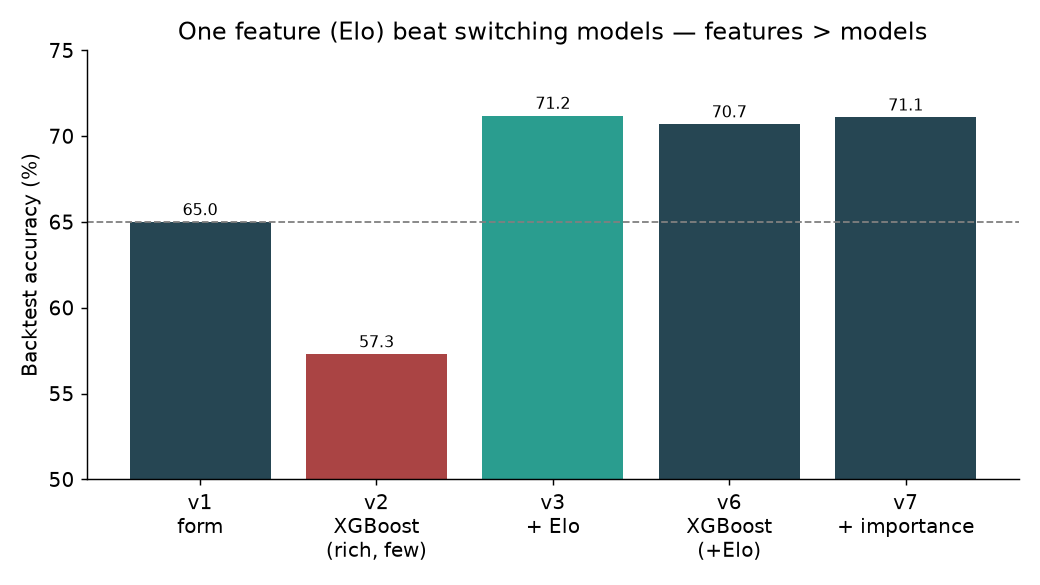
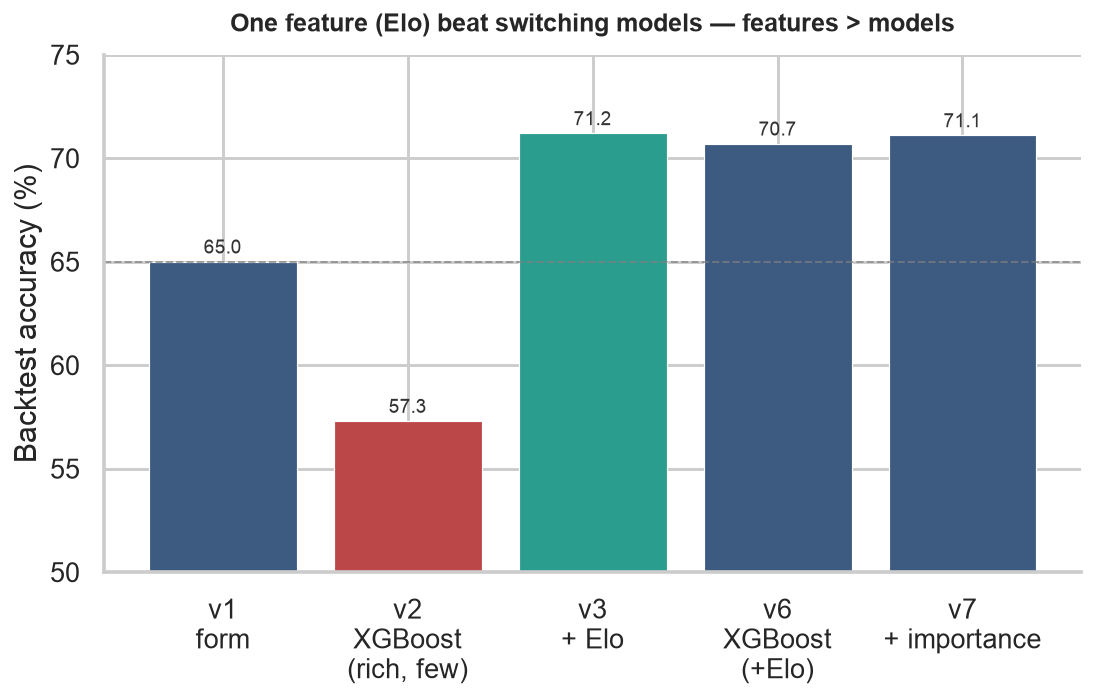
Polish README visuals: seaborn-styled charts, Mermaid pipeline, badges
Restyle all charts with a clean seaborn theme; convert the ASCII pipeline to
a native Mermaid flowchart (renders on GitHub); add tech-stack badges.

diff --git a/make_viz.py b/make_viz.py
@@ -1,70 +1,70 @@
-"""Generate README visualizations into assets/."""
+"""Generate README visualizations into assets/ (seaborn-styled)."""
 
 import matplotlib
 matplotlib.use("Agg")
 import matplotlib.pyplot as plt
 import numpy as np
+import seaborn as sns
 
-plt.rcParams.update({"font.size": 11, "figure.dpi": 130})
+sns.set_theme(style="whitegrid", context="talk", font_scale=0.85)
+plt.rcParams.update({"figure.dpi": 140, "savefig.bbox": "tight",
+                     "axes.spines.top": False, "axes.spines.right": False})
 
-# ── 1. Prediction vs market for Brazil–Morocco ──────────────────────────
-outcomes = ["Brazil win", "Draw", "Morocco win"]
-ours = [36, 28, 36]
-statsbomb = [39, 32, 29]   # independent StatsBomb + XGBoost model (community)
-market = [59, 26, 17]
-x = np.arange(len(outcomes))
-w = 0.27
+TEAL, BLUE, ORANGE = "#2a9d8f", "#3d5a80", "#ee6c4d"
 
-fig, ax = plt.subplots(figsize=(9, 4.5))
-ax.bar(x - w, ours, w, label="Our model (logreg + Elo)", color="#2a9d8f")
-ax.bar(x, statsbomb, w, label="sujar.tech (StatsBomb + XGBoost)", color="#457b9d")
-ax.bar(x + w, market, w, label="Polymarket", color="#e76f51")
-ax.axvspan(0.5, 1.5, color="gold", alpha=0.15)
-ax.text(1, 63, "ACTUAL: 1–1 draw", ha="center", fontweight="bold", color="#b8860b")
-ax.set_xticks(x); ax.set_xticklabels(outcomes)
-ax.set_ylabel("Probability (%)"); ax.set_ylim(0, 70)
-ax.set_title("Two independent data models saw an even match — the market was the outlier")
-ax.legend(fontsize=9); ax.spines[["top", "right"]].set_visible(False)
-for i, (o, s, m) in enumerate(zip(ours, statsbomb, market)):
-    ax.text(i - w, o + 1, f"{o}%", ha="center", fontsize=8)
-    ax.text(i, s + 1, f"{s}%", ha="center", fontsize=8)
-    ax.text(i + w, m + 1, f"{m}%", ha="center", fontsize=8)
-fig.tight_layout(); fig.savefig("assets/prediction_vs_market.png"); plt.close(fig)
 
-# ── 1b. Netherlands vs Japan — predictions (result pending) ─────────────
-nj_outcomes = ["Netherlands", "Draw", "Japan"]
-nj_ours = [36, 30, 34]
-nj_sujar = [53, 29, 18]   # sujar.tech, StatsBomb + XGBoost
-nj_market = [48, 28, 26]
-xn = np.arange(len(nj_outcomes))
+def grouped(outcomes, series, title, savename, ymax, actual=None, actual_idx=None):
+    """3-series grouped bars with value labels."""
+    x = np.arange(len(outcomes)); w = 0.27
+    fig, ax = plt.subplots(figsize=(9, 4.8))
+    for k, (label, vals, color) in enumerate(series):
+        bars = ax.bar(x + (k - 1) * w, vals, w, label=label, color=color,
+                      edgecolor="white", linewidth=0.6)
+        for b, v in zip(bars, vals):
+            ax.text(b.get_x() + b.get_width() / 2, v + ymax * 0.012, f"{v}%",
+                    ha="center", fontsize=10, color="#333")
+    if actual is not None:
+        ax.axvspan(actual_idx - 0.5, actual_idx + 0.5, color="#ffd166", alpha=0.18, zorder=0)
+        ax.text(actual_idx, ymax * 0.9, actual, ha="center", fontweight="bold", color="#b8860b")
+    ax.set_xticks(x); ax.set_xticklabels(outcomes)
+    ax.set_ylabel("Probability (%)"); ax.set_ylim(0, ymax)
+    ax.set_title(title, fontsize=13, fontweight="bold", pad=12)
+    ax.legend(fontsize=9, frameon=True, framealpha=0.9)
+    sns.despine()
+    fig.savefig(f"assets/{savename}.png"); plt.close(fig)
 
-fig, ax = plt.subplots(figsize=(9, 4.5))
-ax.bar(xn - w, nj_ours, w, label="Our model (logreg + Elo)", color="#2a9d8f")
-ax.bar(xn, nj_sujar, w, label="sujar.tech (StatsBomb + XGBoost)", color="#457b9d")
-ax.bar(xn + w, nj_market, w, label="Polymarket", color="#e76f51")
-ax.set_xticks(xn); ax.set_xticklabels(nj_outcomes)
-ax.set_ylabel("Probability (%)"); ax.set_ylim(0, 60)
-ax.set_title("Netherlands vs Japan — our model is the contrarian (even match), result pending")
-ax.legend(fontsize=9); ax.spines[["top", "right"]].set_visible(False)
-for i, (o, s, m) in enumerate(zip(nj_ours, nj_sujar, nj_market)):
-    ax.text(i - w, o + 1, f"{o}%", ha="center", fontsize=8)
-    ax.text(i, s + 1, f"{s}%", ha="center", fontsize=8)
-    ax.text(i + w, m + 1, f"{m}%", ha="center", fontsize=8)
-fig.tight_layout(); fig.savefig("assets/prediction_netherlands_japan.png"); plt.close(fig)
 
-# ── 2. Accuracy by version (the feature-engineering story) ──────────────
+# 1. Brazil vs Morocco
+grouped(
+    ["Brazil win", "Draw", "Morocco win"],
+    [("Our model (logreg + Elo)", [36, 28, 36], TEAL),
+     ("sujar.tech (StatsBomb + XGBoost)", [39, 32, 29], BLUE),
+     ("Polymarket", [59, 26, 17], ORANGE)],
+    "Brazil vs Morocco — two data models saw an even match; the market didn't",
+    "prediction_vs_market", ymax=70, actual="ACTUAL: 1–1 draw", actual_idx=1)
+
+# 1b. Netherlands vs Japan
+grouped(
+    ["Netherlands", "Draw", "Japan"],
+    [("Our model (logreg + Elo)", [36, 30, 34], TEAL),
+     ("sujar.tech (StatsBomb + XGBoost)", [53, 29, 18], BLUE),
+     ("Polymarket", [48, 28, 26], ORANGE)],
+    "Netherlands vs Japan — our model is the contrarian (result pending)",
+    "prediction_netherlands_japan", ymax=60)
+
+# 2. Accuracy by version
 versions = ["v1\nform", "v2\nXGBoost\n(rich, few)", "v3\n+ Elo", "v6\nXGBoost\n(+Elo)", "v7\n+ importance"]
 acc = [65.0, 57.3, 71.2, 70.7, 71.1]
-colors = ["#264653", "#a44", "#2a9d8f", "#264653", "#264653"]
-
-fig, ax = plt.subplots(figsize=(8, 4.5))
-bars = ax.bar(versions, acc, color=colors)
-ax.axhline(65, ls="--", color="grey", lw=1)
+colors = ["#3d5a80", "#bc4749", TEAL, "#3d5a80", "#3d5a80"]
+fig, ax = plt.subplots(figsize=(9, 4.8))
+bars = ax.bar(versions, acc, color=colors, edgecolor="white", linewidth=0.6)
+ax.axhline(65, ls="--", color="grey", lw=1, alpha=0.7)
 ax.set_ylabel("Backtest accuracy (%)"); ax.set_ylim(50, 75)
-ax.set_title("One feature (Elo) beat switching models — features > models")
-ax.spines[["top", "right"]].set_visible(False)
+ax.set_title("One feature (Elo) beat switching models — features > models",
+             fontsize=13, fontweight="bold", pad=12)
 for b, a in zip(bars, acc):
-    ax.text(b.get_x() + b.get_width() / 2, a + 0.4, f"{a:.1f}", ha="center", fontsize=9)
-fig.tight_layout(); fig.savefig("assets/accuracy_by_version.png"); plt.close(fig)
+    ax.text(b.get_x() + b.get_width() / 2, a + 0.4, f"{a:.1f}", ha="center", fontsize=10, color="#333")
+sns.despine()
+fig.savefig("assets/accuracy_by_version.png"); plt.close(fig)
 
-print("saved assets/prediction_vs_market.png and assets/accuracy_by_version.png")
+print("saved 4 charts to assets/")

diff --git a/README.md b/README.md
@@ -1,5 +1,10 @@
 # ⚽ World Cup 2026 Match Predictor
 
+![Python](https://img.shields.io/badge/Python-3.13-3776AB?logo=python&logoColor=white)
+![scikit-learn](https://img.shields.io/badge/scikit--learn-1.9-F7931E?logo=scikitlearn&logoColor=white)
+![XGBoost](https://img.shields.io/badge/XGBoost-3.2-189FDD)
+![pandas](https://img.shields.io/badge/pandas-3.0-150458?logo=pandas&logoColor=white)
+
 A side project: a football model that estimates **win / draw / loss
 probabilities** for any international fixture, benchmarked live against the
 Polymarket prediction market.
@@ -37,17 +42,19 @@ python predict_match.py "Netherlands" "Japan"
 
 ## How it works
 
-```
-49k international results (1872–2026)
-        │  build_dataset.py — clean, leakage-safe rolling form
-        ▼
-25k matches since 2000  (form features + Elo + outcome)
-        │  train.py / train_v3_elo.py — logistic regression + backtest
-        ▼
-71% accuracy on held-out matches  (chronological split, no leakage)
-        │  predict_match.py — train on all data, predict one fixture
-        ▼
-win / draw / loss probabilities
+```mermaid
+flowchart TD
+    A["49k international results<br/>(1872–2026)"]
+    B["25k matches since 2000<br/>form + Elo + outcome"]
+    C["71% backtest accuracy<br/>(chronological split, no leakage)"]
+    D["Win / Draw / Loss<br/>probabilities"]
+    A -->|"build_dataset.py — clean + leakage-safe form"| B
+    B -->|"train.py / train_v3_elo.py — logreg + backtest"| C
+    C -->|"predict_match.py — train on all, predict one fixture"| D
+    style A fill:#e0fbfc,stroke:#3d5a80
+    style B fill:#cce3de,stroke:#2a9d8f
+    style C fill:#a8dadc,stroke:#2a9d8f
+    style D fill:#ffd166,stroke:#b8860b
 ```
 
 Two rules keep the backtest honest: